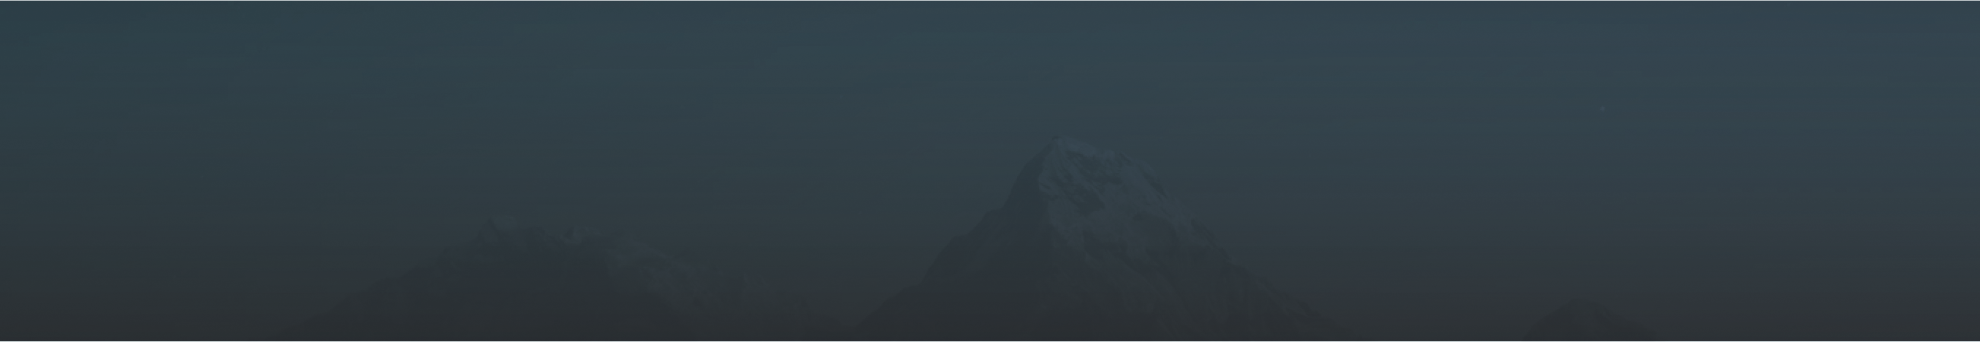
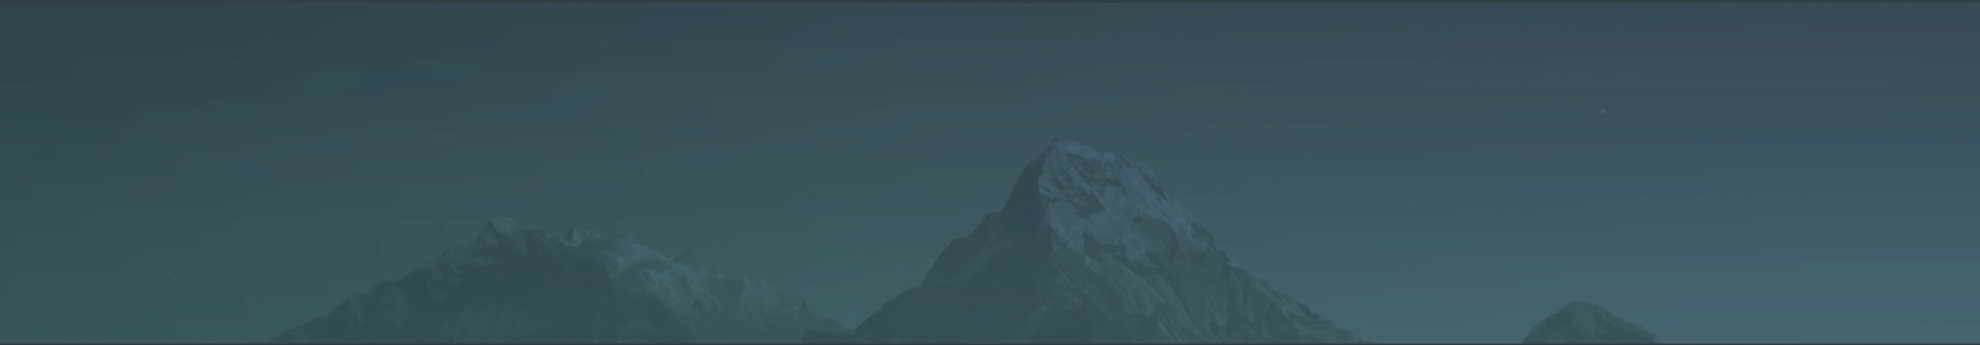
Profile looks better now

diff --git a/tiering-site/src/pages/profile/containers/ProfileView.js b/tiering-site/src/pages/profile/containers/ProfileView.js
@@ -1,10 +1,15 @@
-import React, { Component } from 'react'
+import React, { Component, Fragment } from 'react'
 import { Helmet } from 'react-helmet'
 import { connect } from 'react-redux'
+import Tabs, { TabPane }  from 'rc-tabs'
+import ScrollableInkTabBar from 'rc-tabs/lib/ScrollableInkTabBar';
+import TabContent from 'rc-tabs/lib/TabContent'
 // import { bindActionCreators } from 'redux';
 
 // import * as profileActions from '../actions'
 import { app_name } from '../../../shared/constants';
+import '../styles/ProfileView.css'
+import banner from '../styles/banner.png'
 
 class ProfileView extends Component {
   // constructor(props){
@@ -12,16 +17,65 @@ class ProfileView extends Component {
   // }
 
   render(){
+    const { user } = this.props
     console.debug(this.props)
     return (
-      <div className="page">
+      <div className="profile">
         <Helmet>
-          <title>{ `${ app_name } - ${ this.props.user.name }'s Profile` }</title>
+          <title>{ `${ app_name } - ${ user.displayname }'s Profile` }</title>
         </Helmet>
 
-        <div>
-          
+        <img className='banner' src={ banner } alt='banner'/>
+
+        <div className='main'>
+          <div className='prof'>
+            <div className='pic' style={{backgroundImage: `${ user.profile_pic }`}}></div>
+            <div className='info'>
+              <p>Reputation:  <span>{ user.reputation }</span></p>
+              <p>Spotify Username: <span>{ user.username }</span></p>
+            </div>
+          </div>
+
+          <div className='body'>
+            <div className='name'>{ user.displayname }</div>
+            <Tabs
+              defaultActiveKey="1"
+              onChange={ this.tabChangeCallback  }
+              renderTabBar={ () => <ScrollableInkTabBar /> }
+              renderTabContent={ () => <TabContent /> }
+            >
+              
+              <TabPane tab='Feed' key="1">
+                <Fragment>
+                  { user.feed.length === 0
+                    ? <div className='jumbo'>
+                        Nothing here!
+                      </div>
+                    : <Fragment>
+                        { user.feed.map(_ => (
+                          <div>
+                            Action
+                          </div>
+                        ))}
+                      </Fragment>
+                  }
+                </Fragment>
+              </TabPane>
+
+              <TabPane tab='Circles' key='2'>
+                <div className='btn wide negative'>Create Circle</div>
+              </TabPane>
+
+            </Tabs>
+          </div>
+
+          <div className='ads'>
+
+          </div>
         </div>
+        
+
+        <div></div>
       </div>
     )
   }
@@ -31,7 +85,7 @@ const mapState = state => {
   var { user } = state
   
   return {
-    user: user
+    user: user,
   }
 }
 

diff --git a/tiering-site/src/shared/styles/App.css b/tiering-site/src/shared/styles/App.css
@@ -40,24 +40,6 @@ p span, p a {
   position: relative;
 }
 
-.view {
-  position: absolute;
-  bottom: 0;
-  left: 0;
-  width: 100%;
-}
-
-.page {
-  margin-left: 5rem;
-  margin-right: 5rem;
-}
-
-.page h1 {
-  text-align: center;
-  margin: 45px auto 25px;
-  color: var(--text);
-}
-
 .right {
   float: right;
 }
@@ -73,10 +55,6 @@ p span, p a {
   border-bottom: 1px solid var(--tertiary);
 }
 
-.modal-pnl .rc-progress-line {
-  margin: 35px 10px;
-}
-
 div#react-scrollbar >*:last-child>* {
   margin-left: 2px;
   background-color: var(--primary) !important;
@@ -89,6 +67,29 @@ div#react-confirm-alert{
   z-index: 50000;
   position: relative;
 }
+
+.jumbo{
+  border: solid 1px #949494;
+  border-radius: 6px;
+  background-color: #9494944d;
+  padding: 35px;
+  text-align: center;
+}
+
+.jumbo.error {
+  border: solid 1px #df0101;
+  background-color: #df01014d;
+}
+
+.jumbo.error:hover {
+  cursor: default;
+}
+
+
+
+/* -----------------------------------------------------
+                      Generic Buttons
+--------------------------------------------------------*/
 
 .btn {
   color: var(--text);
@@ -122,48 +123,22 @@ div#react-confirm-alert{
   display: list-item;
   list-style: none;
 }
-.btn.red {
-  background-color: #c41414;
+
+.btn.negative {
+  background-color: transparent;
+  border: solid 2px var(--primary);
 }
-.btn.green {
-  background-color: #30a830;
+
+.btn.negative:hover{
+  background-color: #88a57d29;
 }
+
+.btn.red { background-color: #c41414; } 
+.btn.green { background-color: #30a830; }
+
 .btn i {
   margin: auto 8px;
 }
-
-.btn[disabled]{
-  filter: saturate(20%) brightness(120%);
-  cursor: default;
-}
-
-.btn[disabled]:hover{
-  border: 0;
-}
-
-.jumbo{
-  border: solid 1px #949494;
-  border-radius: 6px;
-  background-color: #9494944d;
-  padding: 35px;
-  text-align: center;
-  box-shadow: 0 0 11px 0px #00000042;
-}
-
-.jumbo.error {
-  border: solid 1px #df0101;
-  border-radius: 6px;
-  background-color: #df01014d;
-  padding: 35px;
-  text-align: center;
-  box-shadow: 0 0 11px 0px #00000042;
-}
-
-.jumbo.error:hover {
-  cursor: default;
-}
-
-
 
 /* -----------------------------------------------------
                       React Tabs

diff --git a/tiering-site/src/pages/profile/styles/ProfileView.css b/tiering-site/src/pages/profile/styles/ProfileView.css
@@ -1,0 +1,70 @@
+.profile .banner {
+  background-image: url(./banner.png);
+  background-size: cover;
+  background-repeat: no-repeat;
+  background-position-y: bottom;
+  background-position-x: center;
+  width: 100%;
+  position: relative;
+}
+
+.profile .main {
+  z-index: 1;
+  position: relative;
+  box-shadow: 0px -20px 200px 20px var(--secondary_dark);
+  width:100%;
+
+  display: grid;
+  grid-template-columns: 0.6fr 1.7fr 0.7fr;
+  grid-template-rows: 1fr;
+}
+
+.profile .body { 
+  grid-area: 1 / 2 / 2 / 3; 
+  position: relative;
+  display: grid;
+  padding: 2rem 1rem;
+  background-color: var(--secondary);
+}
+
+.profile .body .name {
+  position: absolute;
+  bottom: 100%;
+  font-size: 4rem;
+  padding-bottom: 20px;
+}
+
+.profile .rc-tabs-top .rc-tabs-nav-wrap {
+  border-bottom: solid 1px var(--primary_dark);
+}
+
+.profile .rc-tabs-tab {
+  font-size: 19px;
+}
+
+.profile .ads { grid-area: 1 / 3 / 2 / 4; }
+
+
+.profile .prof { 
+  grid-area: 1 / 1 / 2 / 2; 
+  position: relative;
+}
+
+.profile .prof .pic {
+  background-color: var(--primary);
+  right: 50%;
+  left: 50%;
+  width: 9rem;
+  height: 9rem;
+  border-radius: 100px;
+  position: absolute;
+  margin: auto;
+  transform: translate(-50%, -50%);
+}
+
+.profile .prof .info {
+  margin:6.25rem 1.5rem 0;
+  padding: 1.5rem;
+  background-color: var(--secondary);
+  border-radius: 21px;
+}

diff --git a/tiering-site/src/pages/sample page/containers/pageView.js b/tiering-site/src/pages/sample page/containers/pageView.js
@@ -4,21 +4,20 @@ import { connect } from 'react-redux'
 import { bindActionCreators } from 'redux';
 
 import { app_name } from '../../../shared/constants'
-import * as duplicatesActions from '../reducers/actions'
+import * as actions from '../reducers/actions'
 
-class ProcessingView extends Component {
+class PageView extends Component {
   constructor(props){
     super(props)
   }
 
   render(){
     return (
-      <div className="page">
+      <div className="pageName">
         <Helmet>
           <title>{ app_name }</title>
         </Helmet>
 
-        <h1>Image Processing</h1>
       </div>
     )
   }
@@ -26,15 +25,15 @@ class ProcessingView extends Component {
 
 const mapState = state => {
   return {
-    images: state.browser.images
+    state
   }
 }
 
 const mapDispatch = dispatch => ({
-  actions: bindActionCreators(duplicatesActions, dispatch)
+  actions: bindActionCreators(actions, dispatch)
 })
 
 export default connect(
   mapState,
   mapDispatch
-)(ProcessingView)
+)(PageView)

diff --git a/tiering-site/src/shared/components/App.js b/tiering-site/src/shared/components/App.js
@@ -72,8 +72,8 @@ class App extends Component {
    * @param {*} event
    */
   handleLogout = async event => {
-    this.props.cookies.removeCookie(cookies.refreshToken)
-    this.props.cookies.removeCookie(cookies.accessToken)
+    this.props.cookies.remove(cookies.refreshToken)
+    this.props.cookies.remove(cookies.accessToken)
     this.userHasAuthenticated(false);
     
     // tell the the server to log us out

diff --git a/tiering-site/src/shared/components/Navbar.js b/tiering-site/src/shared/components/Navbar.js
@@ -42,7 +42,7 @@ class Navbar extends Component {
 
             {/* <Link to= { pages.circles }><i className="fas fa-play-circle"></i>Circles</Link> */}
             
-            {/* <div onClick={this.props.handleLogout}>Logout</div> */}
+            <div className='btn' onClick={ this.props.logout }>Logout</div> 
           </Fragment>
         : <Fragment>
             <Link to={ pages.login }>

diff --git a/tiering-site/src/shared/constants.js b/tiering-site/src/shared/constants.js
@@ -24,7 +24,9 @@ export const sortDir = {
 export const initialState = {
   // User details
   user: {
-    name: '...'
+    name: '...',
+    feed: [],
+    circles: []
   },
 
   // page for circle

diff --git a/tiering-site/src/shared/styles/Navbar.css b/tiering-site/src/shared/styles/Navbar.css
@@ -17,6 +17,11 @@
   transition: 0.2s;
 }
 
+.nav-header > .btn {
+  margin-top: 5px;
+  margin-right: 10px;
+}
+
 .nav-header > *.left {
   float: left;
 }
